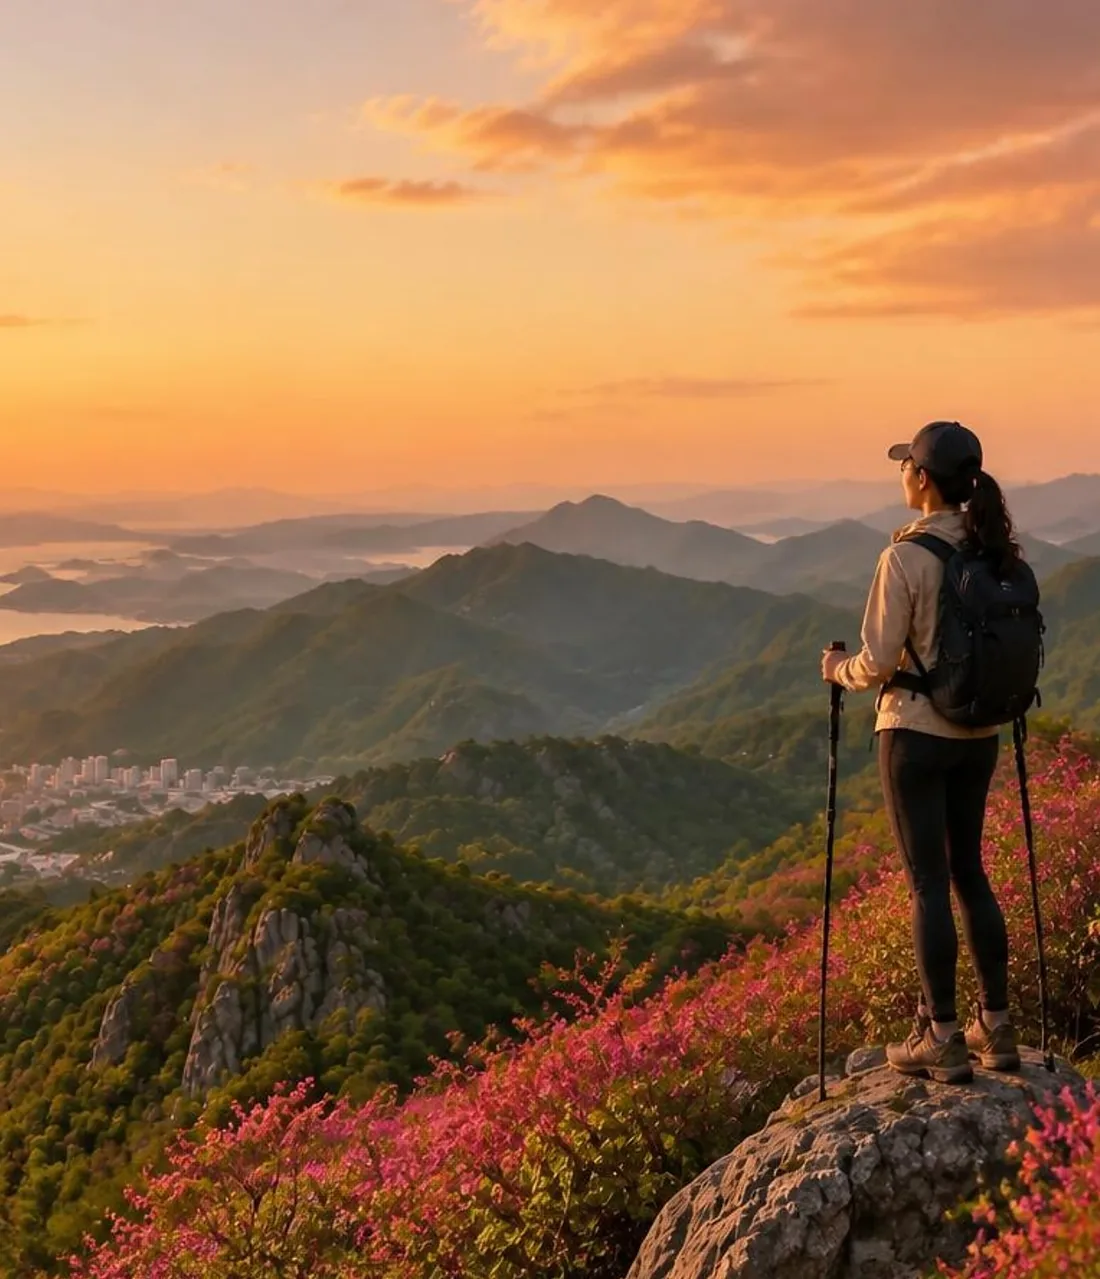
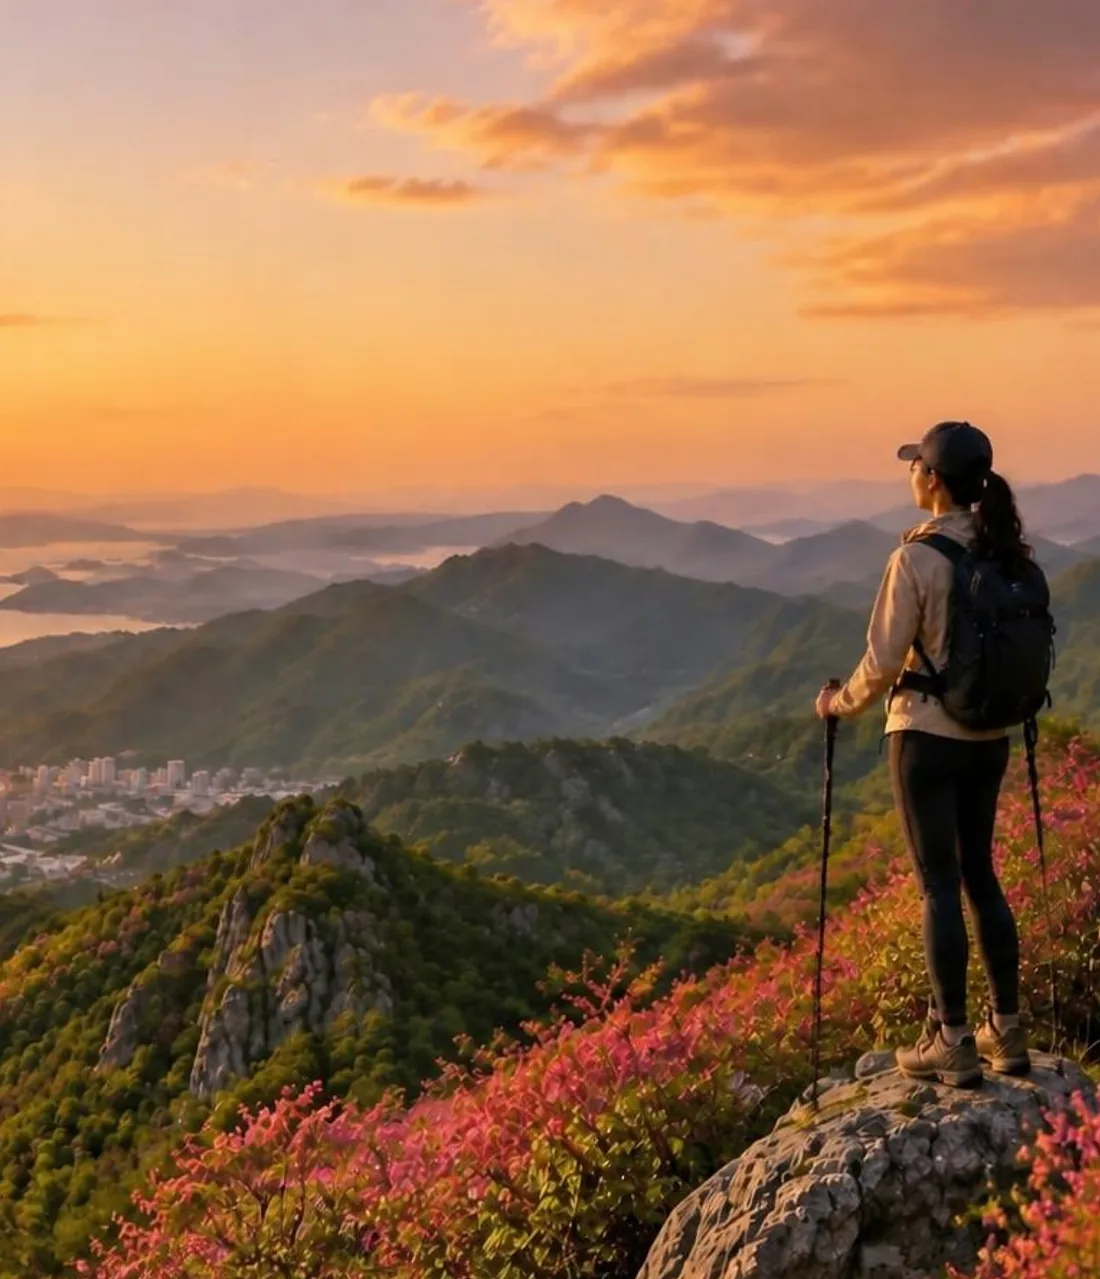
히어로 봄 저녁 v6 적용 (픽셀 검수 통과) (#32)
- Canva 재생성본: 다리 2개·폴 2개·발목/부츠 윤곽 단일, 배경 결함 없음
- READY에 spring-evening 추가 노출

Claude-Session: https://claude.ai/code/session_01TTPn3ts8fEyWREDupZmwxM

diff --git a/_src.html b/_src.html
@@ -13,7 +13,7 @@
 (function(){var k="";try{var d=new Date(),M=d.getMonth()+1,h=d.getHours();
 var s=M>=3&&M<=5?"spring":M>=6&&M<=8?"summer":M>=9&&M<=11?"autumn":"winter";
 var t=h>=4&&h<7?"dawn":h>=7&&h<17?"day":h>=17&&h<21?"evening":"night";k=s+"-"+t;
-var READY={"spring-dawn":1,"spring-day":1};/* 검수 통과분만 노출, 나머지는 원본 히어로 */
+var READY={"spring-dawn":1,"spring-day":1,"spring-evening":1};/* 검수 통과분만 노출, 나머지는 원본 히어로 */
 window.__heroReady=READY;if(!READY[k])k="";
 var q=/[?&]hero=((?:spring|summer|autumn|winter)-(?:dawn|day|evening|night))(?:&|$)/.exec(location.search);if(q&&READY[q[1]])k=q[1];}catch(e){k="";}
 window.__hero=k;var a=k?"/img/hero/"+k:"/img/hero",b=k?"/img/hero/"+k+"-m.webp":"/img/hero-m.webp";
@@ -333,7 +333,7 @@ footer{background:var(--dark);color:rgba(255,255,255,.5);border-top:1px solid rg
       <img class="bg" id="heroImg" width="2560" height="1280" alt="산 정상 바위에 서서 다도해와 겹겹의 산줄기를 바라보는 등산객" fetchpriority="high" />
     </picture>
     <script>(function(){var k=window.__hero,i=document.getElementById("heroImg"),s=document.getElementById("heroSrc"),w=document.getElementById("bgwrap");
-var C={"spring-dawn":["#b59ba3","#4f474c"],"spring-day":["#8aa9c1","#59584b"],"spring-evening":["#d7a16f","#704d2b"],"spring-night":["#11253b","#0e1217"],"summer-dawn":["#dcbba1","#5f5642"],"summer-day":["#75abe1","#3a5f55"],"summer-evening":["#c78665","#594429"],"summer-night":["#0f2951","#0c1826"],"autumn-dawn":["#9482ba","#5c4159"],"autumn-day":["#81b5db","#6b5e5b"],"autumn-evening":["#c69164","#693821"],"autumn-night":["#1b293a","#17151a"],"winter-dawn":["#a8acce","#475986"],"winter-day":["#afcfee","#77879c"],"winter-evening":["#8d7575","#4e3f4f"],"winter-night":["#182742","#1c273d"]};function fb(){s.srcset="/img/hero-m.webp";i.src="/img/hero.webp";w.style.backgroundImage="";}
+var C={"spring-dawn":["#b59ba3","#4f474c"],"spring-day":["#8aa9c1","#59584b"],"spring-evening":["#d19b6d","#6d4e2d"],"spring-night":["#11253b","#0e1217"],"summer-dawn":["#dcbba1","#5f5642"],"summer-day":["#75abe1","#3a5f55"],"summer-evening":["#c78665","#594429"],"summer-night":["#0f2951","#0c1826"],"autumn-dawn":["#9482ba","#5c4159"],"autumn-day":["#81b5db","#6b5e5b"],"autumn-evening":["#c69164","#693821"],"autumn-night":["#1b293a","#17151a"],"winter-dawn":["#a8acce","#475986"],"winter-day":["#afcfee","#77879c"],"winter-evening":["#8d7575","#4e3f4f"],"winter-night":["#182742","#1c273d"]};function fb(){s.srcset="/img/hero-m.webp";i.src="/img/hero.webp";w.style.backgroundImage="";}
 if(!k){fb();return;}i.addEventListener("error",function(){if(!i.getAttribute("data-fb")){i.setAttribute("data-fb","1");fb();}});
 if(C[k])w.style.backgroundImage="linear-gradient(180deg,"+C[k][0]+","+C[k][1]+")";
 s.srcset="/img/hero/"+k+"-m.webp";i.src="/img/hero/"+k+".webp";})();</script>

diff --git a/index.html b/index.html
@@ -13,7 +13,7 @@
 (function(){var k="";try{var d=new Date(),M=d.getMonth()+1,h=d.getHours();
 var s=M>=3&&M<=5?"spring":M>=6&&M<=8?"summer":M>=9&&M<=11?"autumn":"winter";
 var t=h>=4&&h<7?"dawn":h>=7&&h<17?"day":h>=17&&h<21?"evening":"night";k=s+"-"+t;
-var READY={"spring-dawn":1,"spring-day":1};/* 검수 통과분만 노출, 나머지는 원본 히어로 */
+var READY={"spring-dawn":1,"spring-day":1,"spring-evening":1};/* 검수 통과분만 노출, 나머지는 원본 히어로 */
 window.__heroReady=READY;if(!READY[k])k="";
 var q=/[?&]hero=((?:spring|summer|autumn|winter)-(?:dawn|day|evening|night))(?:&|$)/.exec(location.search);if(q&&READY[q[1]])k=q[1];}catch(e){k="";}
 window.__hero=k;var a=k?"/img/hero/"+k:"/img/hero",b=k?"/img/hero/"+k+"-m.webp":"/img/hero-m.webp";
@@ -333,7 +333,7 @@ footer{background:var(--dark);color:rgba(255,255,255,.5);border-top:1px solid rg
       <img class="bg" id="heroImg" width="2560" height="1280" alt="산 정상 바위에 서서 다도해와 겹겹의 산줄기를 바라보는 등산객" fetchpriority="high" />
     </picture>
     <script>(function(){var k=window.__hero,i=document.getElementById("heroImg"),s=document.getElementById("heroSrc"),w=document.getElementById("bgwrap");
-var C={"spring-dawn":["#b59ba3","#4f474c"],"spring-day":["#8aa9c1","#59584b"],"spring-evening":["#d7a16f","#704d2b"],"spring-night":["#11253b","#0e1217"],"summer-dawn":["#dcbba1","#5f5642"],"summer-day":["#75abe1","#3a5f55"],"summer-evening":["#c78665","#594429"],"summer-night":["#0f2951","#0c1826"],"autumn-dawn":["#9482ba","#5c4159"],"autumn-day":["#81b5db","#6b5e5b"],"autumn-evening":["#c69164","#693821"],"autumn-night":["#1b293a","#17151a"],"winter-dawn":["#a8acce","#475986"],"winter-day":["#afcfee","#77879c"],"winter-evening":["#8d7575","#4e3f4f"],"winter-night":["#182742","#1c273d"]};function fb(){s.srcset="/img/hero-m.webp";i.src="/img/hero.webp";w.style.backgroundImage="";}
+var C={"spring-dawn":["#b59ba3","#4f474c"],"spring-day":["#8aa9c1","#59584b"],"spring-evening":["#d19b6d","#6d4e2d"],"spring-night":["#11253b","#0e1217"],"summer-dawn":["#dcbba1","#5f5642"],"summer-day":["#75abe1","#3a5f55"],"summer-evening":["#c78665","#594429"],"summer-night":["#0f2951","#0c1826"],"autumn-dawn":["#9482ba","#5c4159"],"autumn-day":["#81b5db","#6b5e5b"],"autumn-evening":["#c69164","#693821"],"autumn-night":["#1b293a","#17151a"],"winter-dawn":["#a8acce","#475986"],"winter-day":["#afcfee","#77879c"],"winter-evening":["#8d7575","#4e3f4f"],"winter-night":["#182742","#1c273d"]};function fb(){s.srcset="/img/hero-m.webp";i.src="/img/hero.webp";w.style.backgroundImage="";}
 if(!k){fb();return;}i.addEventListener("error",function(){if(!i.getAttribute("data-fb")){i.setAttribute("data-fb","1");fb();}});
 if(C[k])w.style.backgroundImage="linear-gradient(180deg,"+C[k][0]+","+C[k][1]+")";
 s.srcset="/img/hero/"+k+"-m.webp";i.src="/img/hero/"+k+".webp";})();</script>
